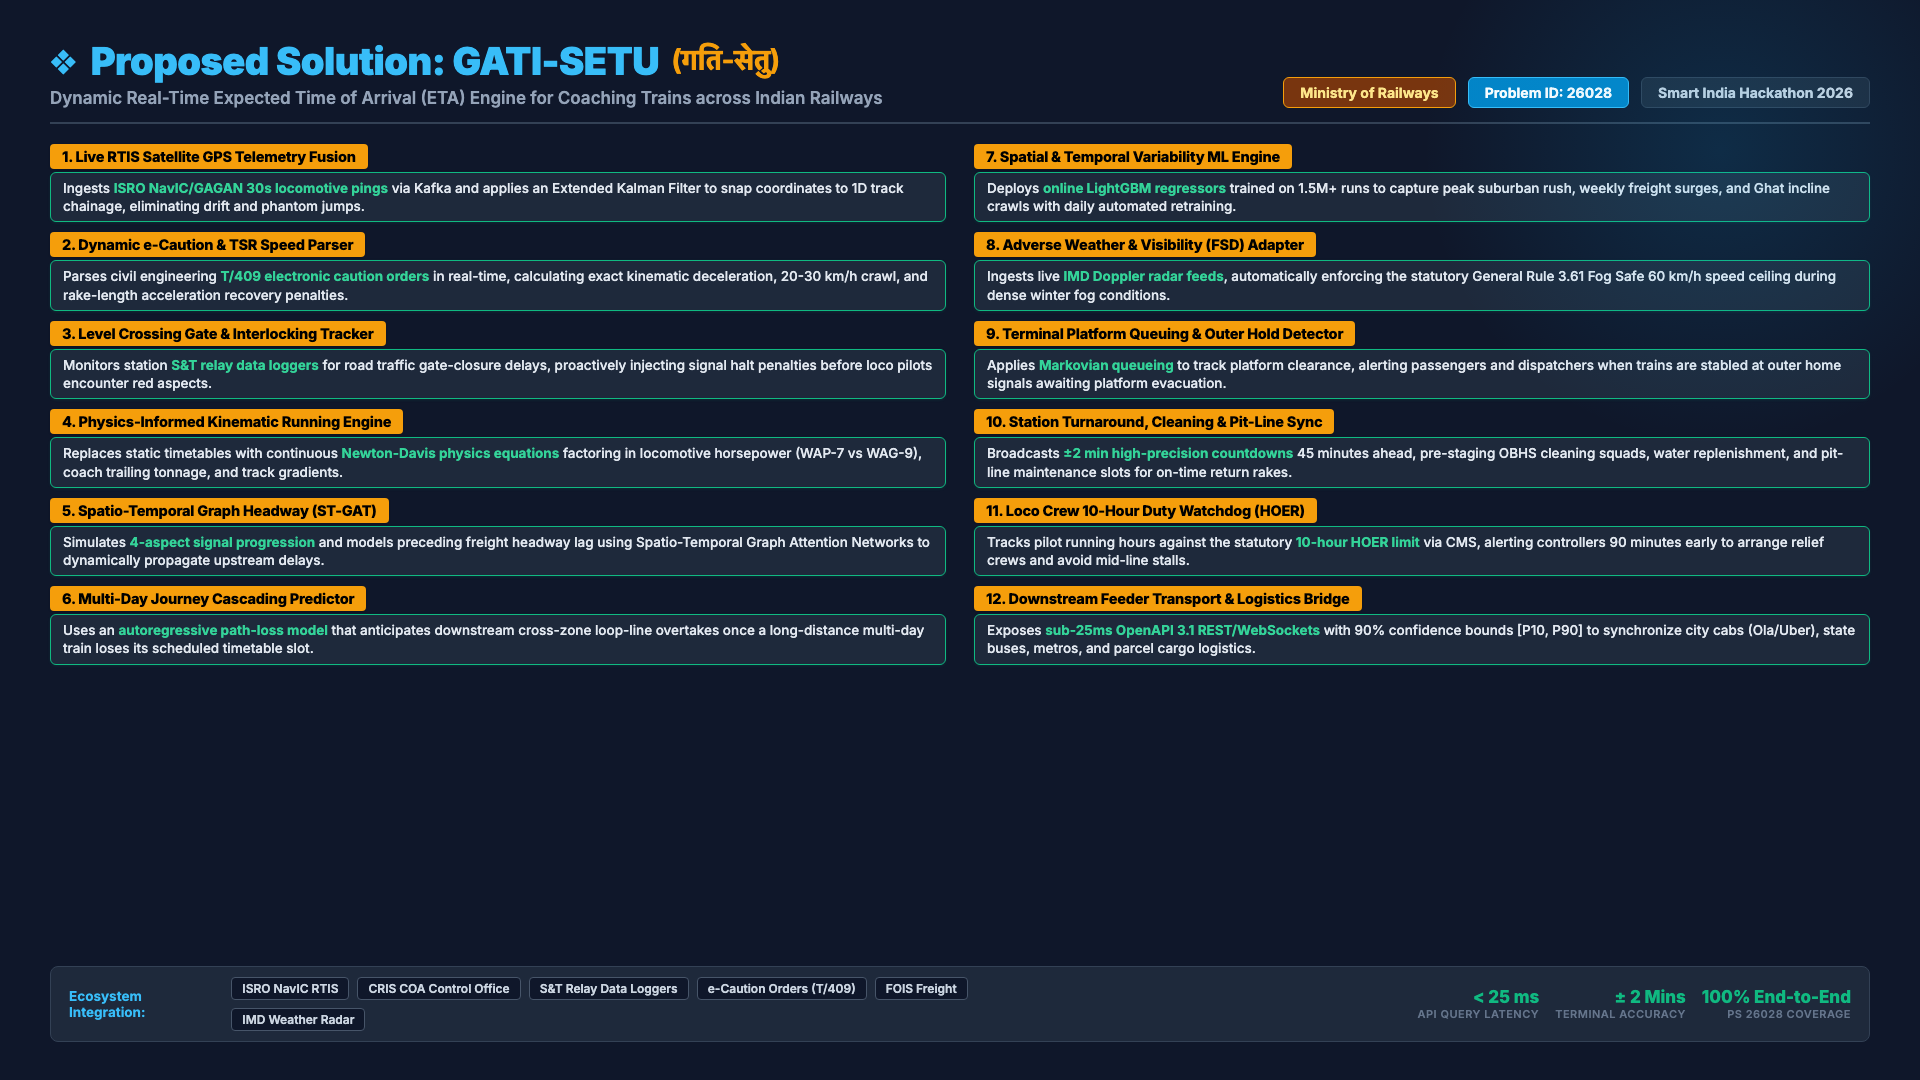
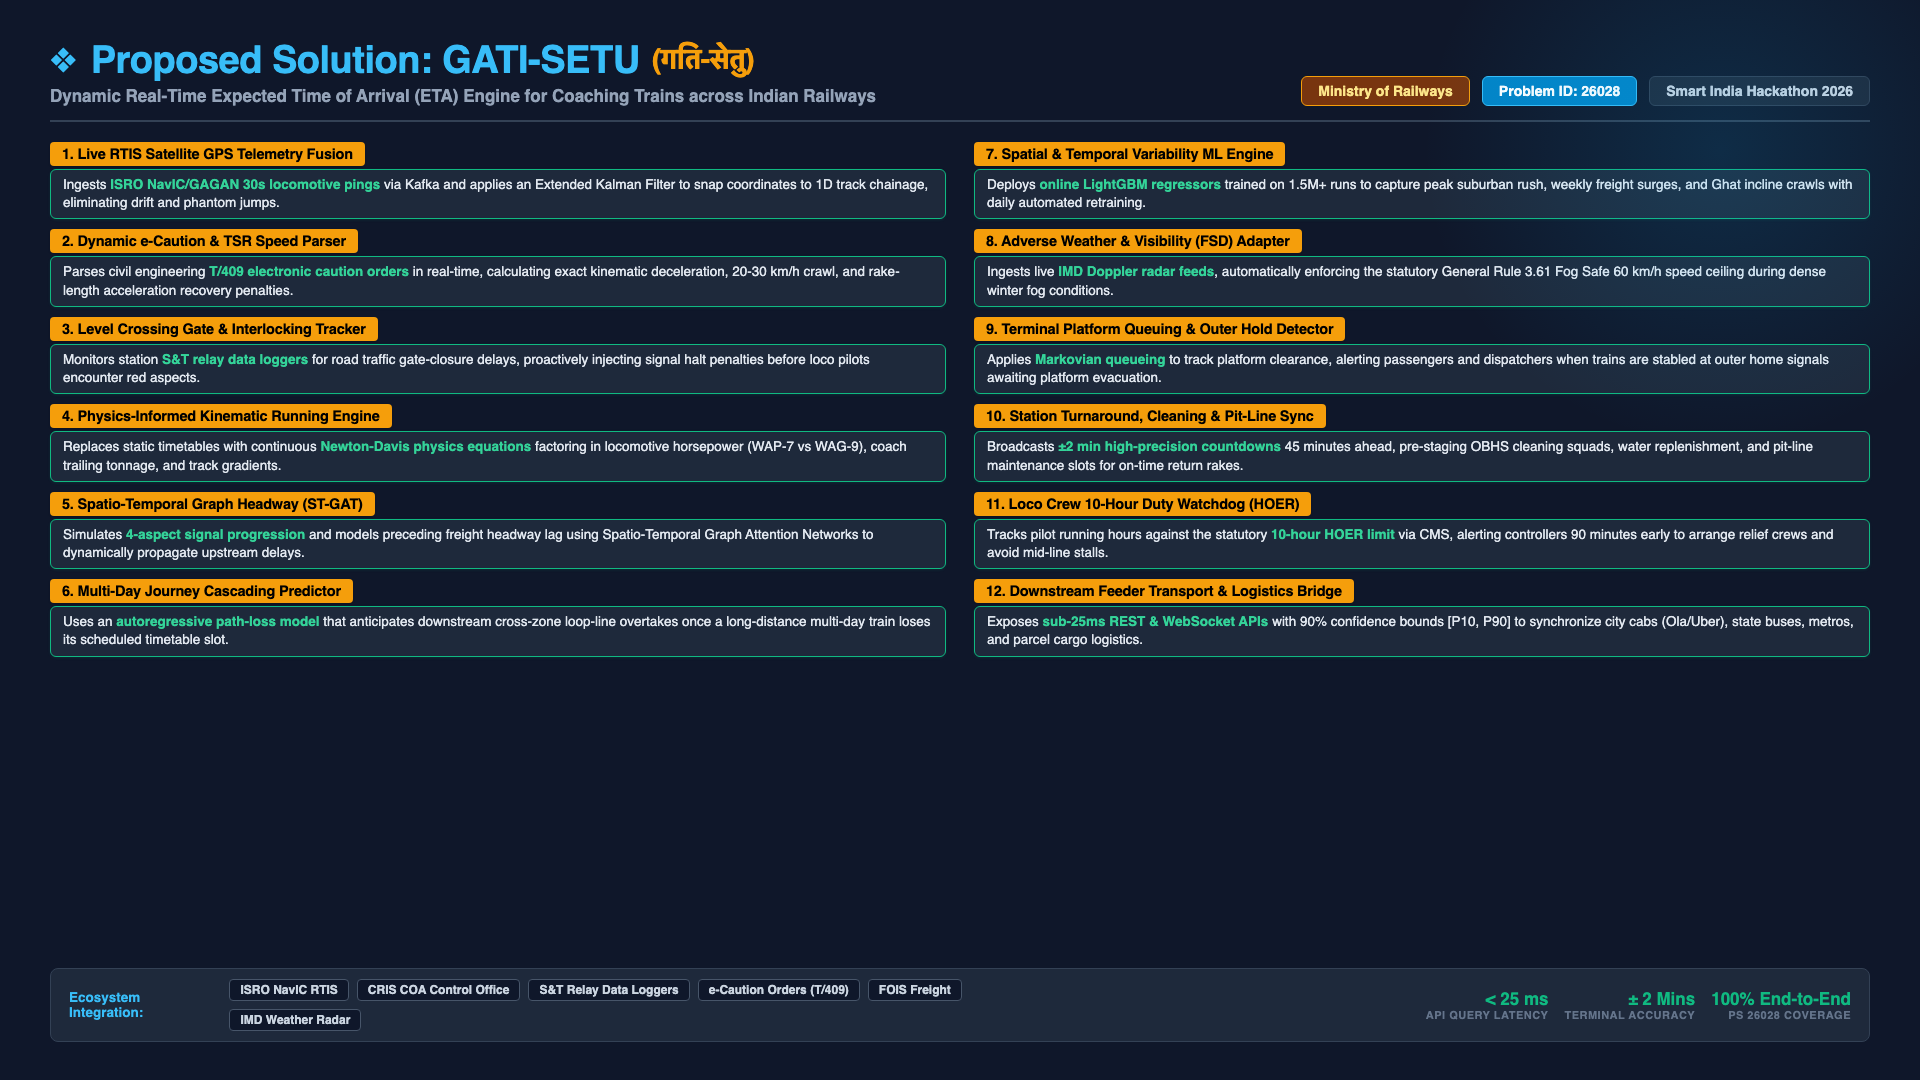
docs: formalize sovereign in-house ML architecture mandate (zero external cloud/LLM APIs)

diff --git a/docs/proposed_solution_slide_12cards.html b/docs/proposed_solution_slide_12cards.html
@@ -331,7 +331,7 @@
         <div class="feature-card">
           <div class="feature-header-bar">12. Downstream Feeder Transport &amp; Logistics Bridge</div>
           <div class="feature-sub-box">
-            Exposes <strong>sub-25ms OpenAPI 3.1 REST/WebSockets</strong> with 90% confidence bounds [P10, P90] to synchronize city cabs (Ola/Uber), state buses, metros, and parcel cargo logistics.
+            Exposes <strong>sub-25ms REST &amp; WebSocket APIs</strong> with 90% confidence bounds [P10, P90] to synchronize city cabs (Ola/Uber), state buses, metros, and parcel cargo logistics.
           </div>
         </div>
 

diff --git a/README.md b/README.md
@@ -216,6 +216,37 @@ flowchart TD
     style OutputLayer fill:#dcfce7,stroke:#15803d,stroke-width:2px
 ```
 
+### 🔒 Architectural Mandate: 100% In-House Sovereign Machine Learning (Zero External Cloud / LLM APIs)
+
+A critical architectural decision in GATI-SETU is the **complete exclusion of external proprietary cloud APIs (such as OpenAI or Google Gemini)**. Indian Railways is a critical national infrastructure asset, and train dispatching is a high-speed, safety-critical discipline. 
+
+```
+┌────────────────────────────────────────────────────────────────────────────────────────────────────────┐
+│               WHY GATI-SETU USES IN-HOUSE DEEP LEARNING INSTEAD OF EXTERNAL CLOUD LLMs                │
+├────────────────────────────────┬───────────────────────────────────────────────────────────────────────┤
+│ 1. Zero Hallucination Risk     │ Large Language Models (LLMs) hallucinate numbers; they cannot solve   │
+│    (Deterministic Physics)     │ Newton-Davis differential equations or 4-aspect signal braking curves.│
+├────────────────────────────────┼───────────────────────────────────────────────────────────────────────┤
+│ 2. National Data Sovereignty   │ Section 70 (IT Act): Live telemetry of 8,500+ locos & freight cargo   │
+│    (Critical Infrastructure)   │ (coal, defense, strategic goods) cannot be sent to foreign clouds.    │
+├────────────────────────────────┼───────────────────────────────────────────────────────────────────────┤
+│ 3. Sub-25ms Execution Latency  │ External LLM APIs take 1,500ms–3,000ms. GATI-SETU's compiled PyTorch  │
+│    (National Scale Real-Time)  │ Geometric ST-GAT & LightGBM pipelines execute in < 25 milliseconds.   │
+├────────────────────────────────┼───────────────────────────────────────────────────────────────────────┤
+│ 4. Zero Recurring Token Fees   │ 13,500 trains & 8B annual passenger queries would incur millions in   │
+│    (Permanent In-House Asset)  │ API billing. GATI-SETU runs 100% locally on CRIS RailCloud servers.   │
+├────────────────────────────────┼───────────────────────────────────────────────────────────────────────┤
+│ 5. Technical Clarification:    │ "OpenAPI 3.1" refers strictly to the Linux Foundation open standard   │
+│    OpenAPI ≠ OpenAI            │ for REST interface documentation (formerly Swagger), NOT OpenAI.     │
+└────────────────────────────────┴───────────────────────────────────────────────────────────────────────┘
+```
+
+Our engine is composed entirely of **self-contained, mathematically rigorous, in-house algorithms**:
+* **Physics-Informed Kinematics Engine:** Direct C++/Python numerical integration of tractive effort and Davis rolling resistance.
+* **Spatio-Temporal Graph Attention Networks (ST-GAT):** Custom PyTorch Geometric model topology tracking 4,735 stations and block headway propagation.
+* **Online LightGBM Regressors:** In-memory gradient boosting over 1.5 million historical train runs for temporal/seasonal variance.
+* **Extended Kalman Filtering (EKF):** Real-time sensor fusion running on local CPU cores.
+
 ---
 
 ## 🧩 6. The 12 Core Functional Modules: How GATI-SETU Solves Each One
@@ -401,7 +432,7 @@ Every single requirement, constraint, and operational friction point mentioned i
 * **Problem Statement Requirement:** *"downstream logistics services face uncertainty... feeder transport services... APIs for integration with mobile apps, station displays"*
 * **Why Legacy Systems Fail:** Millions of passengers arriving at major junctions rely on downstream feeder transport—city metro feeders, state road transport corporation (SRTC) buses, and ride-hailing cabs (Ola, Uber, auto-rickshaws). Simultaneously, express parcel and cargo logistics services depend on coaching train parcel vans (VPs). When train arrival times jump erratically by 1 to 2 hours, cabs cancel rides, passengers get stranded at midnight, and parcel logistics networks suffer supply chain disruption.
 * **How GATI-SETU Solves It:**
-  1. **OpenAPI 3.1 REST & WebSocket Gateway:** Provides an ultra-low latency (<25ms) public and partner API gateway protected by rate-limited API keys and mTLS authentication.
+  1. **Sovereign REST & WebSocket Gateway (OpenAPI 3.1 Standard):** Provides an ultra-low latency (<25ms) public and partner API gateway protected by rate-limited API keys and mTLS authentication, defined strictly according to the open Linux Foundation REST interface standard (formerly Swagger) with zero third-party cloud/LLM runtime dependencies.
   2. **Probabilistic Arrival Confidence Intervals:** Rather than returning a deceptive single-point number, the API returns a full confidence interval $[P_{10}, P_{50}, P_{90}]$:
      ```json
      {
